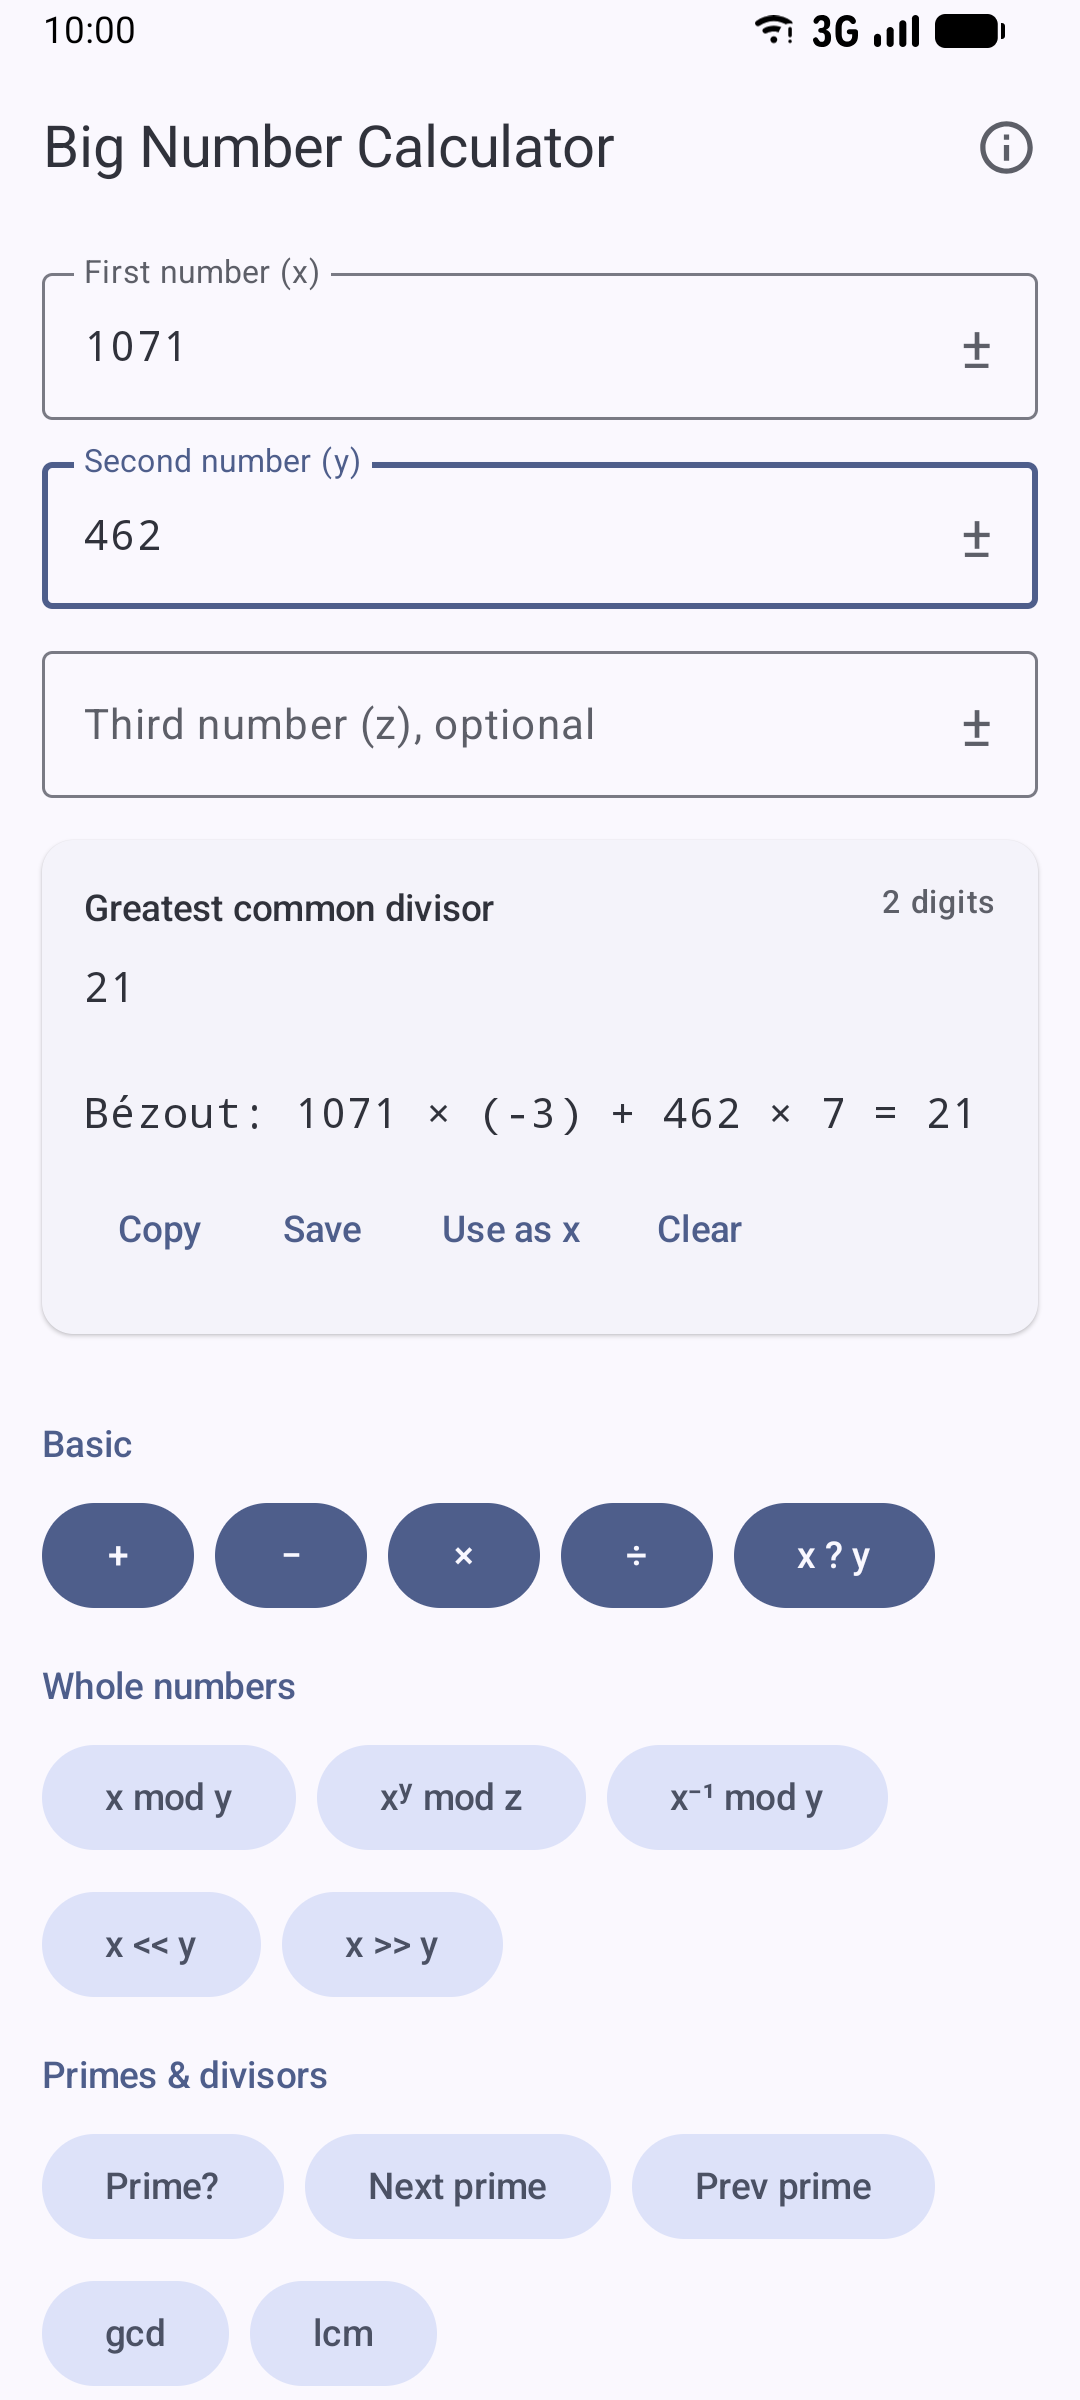
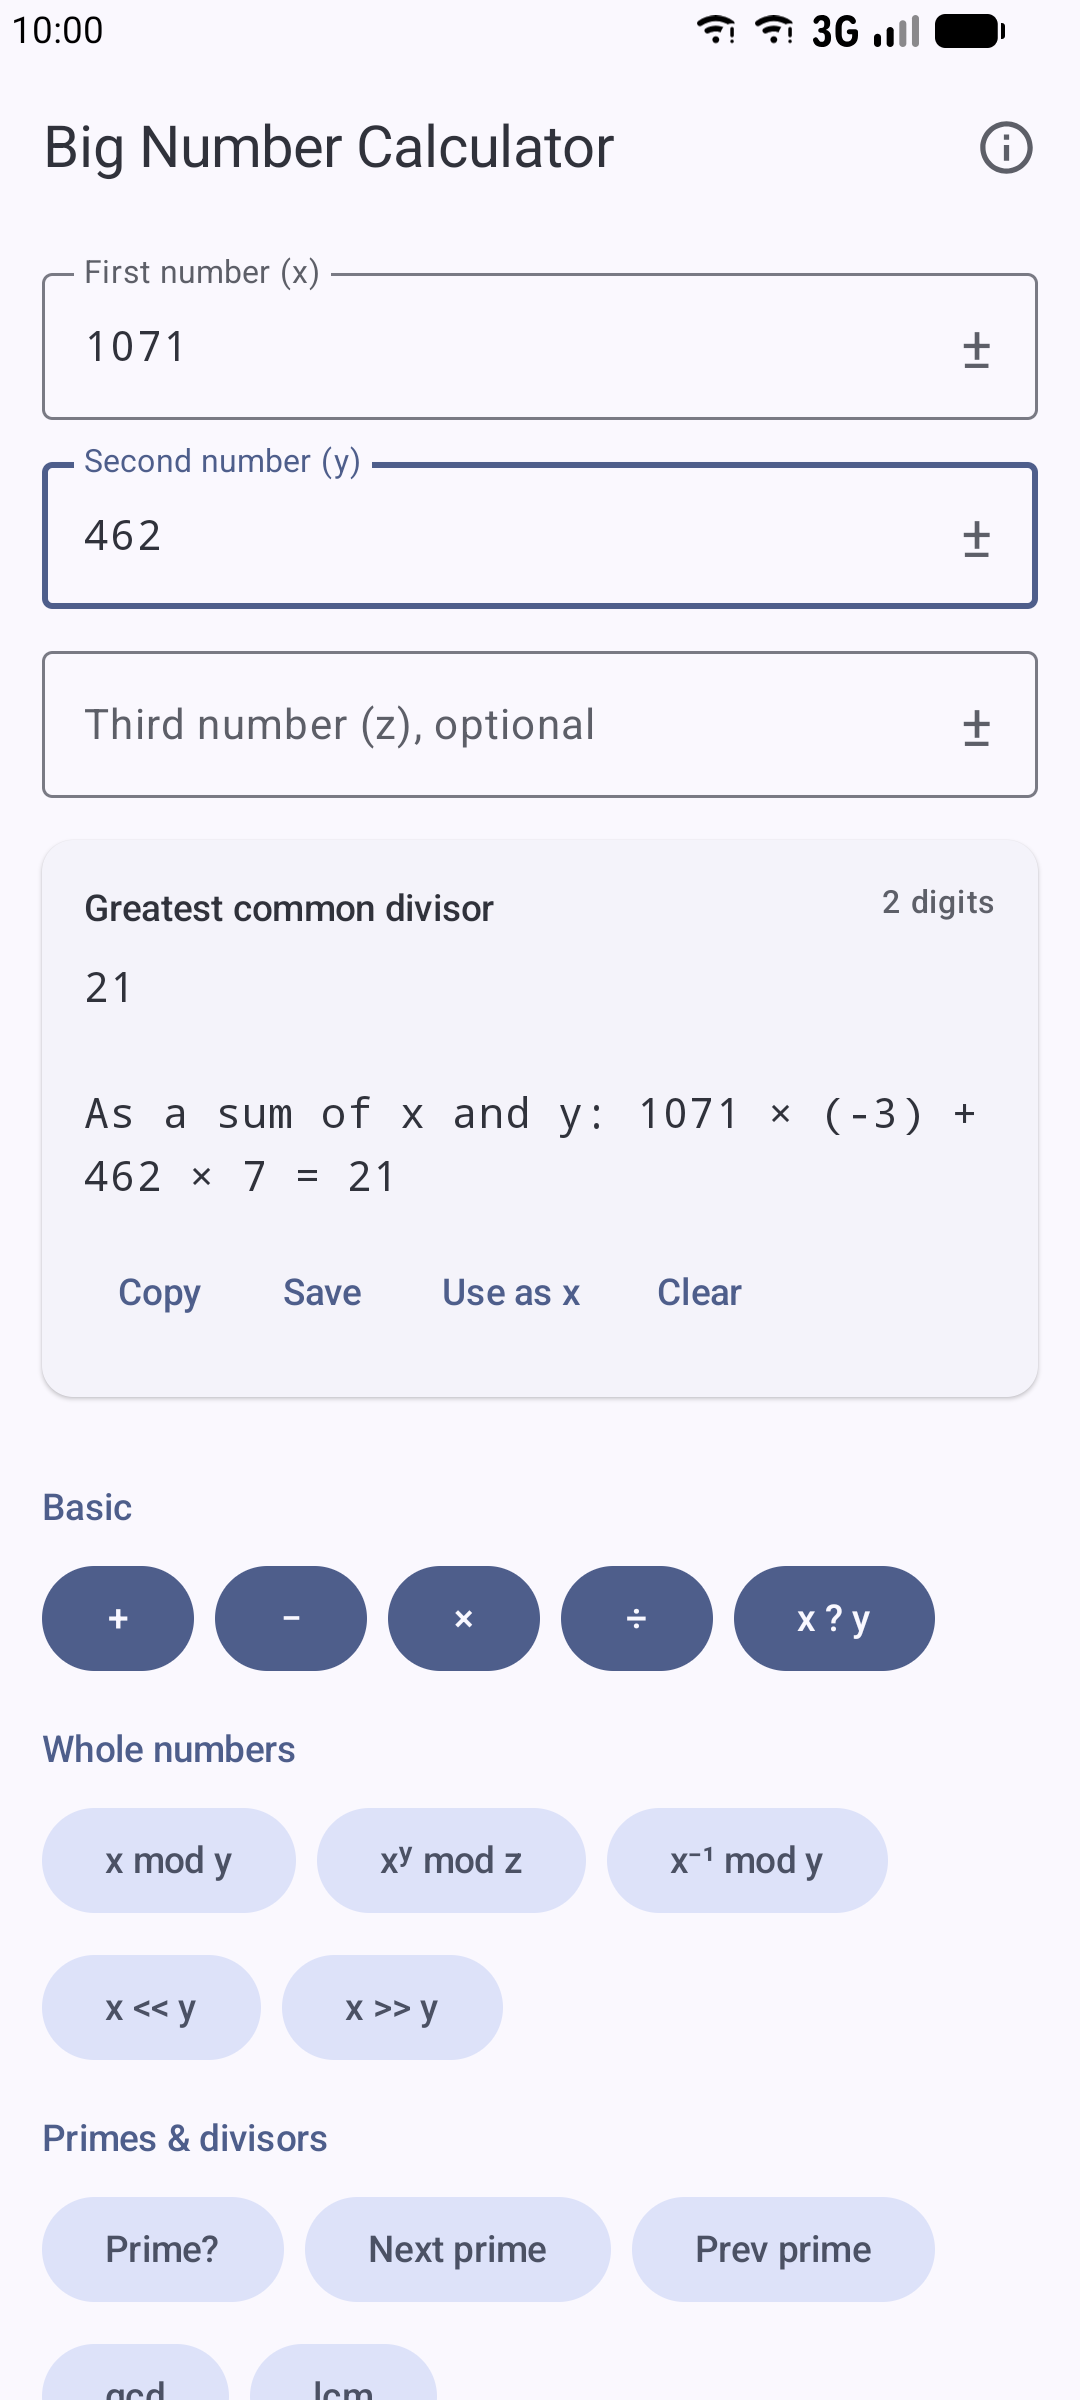
Use plain English for gcd, check-digit and sequence labels
Replace the "Bezout" line in gcd results with "As a sum of x and y",
rename the Luhn check to "Card / IMEI check digit", spell out the
Fibonacci and Catalan button labels, and show "none" instead of a dash
for trailing zeros. Retake the gcd screenshot and update the README.

diff --git a/app/src/test/java/info/mayuragarkar/calculator/engine/CalcEngineTest.kt b/app/src/test/java/info/mayuragarkar/calculator/engine/CalcEngineTest.kt
@@ -121,7 +121,7 @@ class CalcEngineTest {
         assertEquals("97", eval(Op.PREV_PRIME, "100"))
         assertEquals("2", eval(Op.PREV_PRIME, "3"))
         assertTrue(fails(Op.PREV_PRIME, "2").contains("no prime"))
-        assertEquals("6\n\nBézout: 12 × (-1) + 18 × 1 = 6", eval(Op.GCD, "12", "18"))
+        assertEquals("6\n\nAs a sum of x and y: 12 × (-1) + 18 × 1 = 6", eval(Op.GCD, "12", "18"))
         assertEquals("6", eval(Op.GCD, "12, 18, 30"))
         assertEquals("60", eval(Op.LCM, "4 6", "10"))
         assertTrue(fails(Op.GCD, "12").contains("at least two"))
@@ -145,15 +145,15 @@ class CalcEngineTest {
         assertEquals("-Z", eval(Op.TO_BASE, "-35", "36"))
         assertTrue(fails(Op.TO_BASE, "10", "1").contains("2 to 36"))
         assertEquals("Bit length: 8\nOnes: 8\nTrailing zeros: 0", eval(Op.BITS, "255"))
-        assertEquals("Bit length: 0\nOnes: 0\nTrailing zeros: –", eval(Op.BITS, "0"))
+        assertEquals("Bit length: 0\nOnes: 0\nTrailing zeros: none", eval(Op.BITS, "0"))
         assertEquals("Two's complement width: 8 bits\nOnes: 8\nTrailing zeros: 0\n\n11111111", eval(Op.BITS, "-1"))
         assertTrue(eval(Op.BITS, "-128").endsWith("\n10000000"))
     }
 
     @Test fun checkDigits() {
-        assertEquals("Luhn (cards, IMEI): valid", eval(Op.CHECK_DIGITS, "79927398713"))
+        assertEquals("Card / IMEI check digit: valid", eval(Op.CHECK_DIGITS, "79927398713"))
         assertTrue(eval(Op.CHECK_DIGITS, "79927398710").contains("should be 3"))
-        assertTrue(eval(Op.CHECK_DIGITS, "978-0-306-40615-7").startsWith("ISBN-13 / EAN-13: valid"))
+        assertTrue(eval(Op.CHECK_DIGITS, "978-0-306-40615-7").startsWith("ISBN-13 / barcode (EAN-13): valid"))
         assertTrue(eval(Op.CHECK_DIGITS, "0-306-40615-2").startsWith("ISBN-10: valid"))
         assertEquals("IBAN: valid", eval(Op.CHECK_DIGITS, "GB82 WEST 1234 5698 7654 32"))
         assertTrue(eval(Op.CHECK_DIGITS, "GB00 WEST 1234 5698 7654 32").contains("should be 82"))

diff --git a/app/src/main/java/info/mayuragarkar/calculator/engine/CalcEngine.kt b/app/src/main/java/info/mayuragarkar/calculator/engine/CalcEngine.kt
@@ -34,8 +34,8 @@ enum class Op(val label: String, val title: String, val group: Group) {
     LN("ln x", "Natural logarithm", Group.POWERS),
     NCR("C(x, y)", "Combinations", Group.COUNTING),
     NPR("P(x, y)", "Permutations", Group.COUNTING),
-    FIBONACCI("Fib(x)", "Fibonacci number", Group.COUNTING),
-    CATALAN("Cat(x)", "Catalan number", Group.COUNTING),
+    FIBONACCI("Fibonacci(x)", "Fibonacci number", Group.COUNTING),
+    CATALAN("Catalan(x)", "Catalan number", Group.COUNTING),
     TO_BASE("x in base y", "Base conversion", Group.CONVERT),
     BITS("Bits", "Bit view", Group.CONVERT),
     CHECK_DIGITS("Check digits", "Check digits (card, ISBN, IBAN)", Group.CONVERT),

diff --git a/rust/src/engine.rs b/rust/src/engine.rs
@@ -420,7 +420,7 @@ fn paren(i: &Integer) -> String {
 fn gcd(nums: &[Integer]) -> Res<String> {
     if let [a, b] = nums {
         let (g, s, t) = a.extended_gcd(b);
-        return Ok(format!("{g}\n\nBézout: {} × {} + {} × {} = {g}", paren(a), paren(&s), paren(b), paren(&t)));
+        return Ok(format!("{g}\n\nAs a sum of x and y: {} × {} + {} × {} = {g}", paren(a), paren(&s), paren(b), paren(&t)));
     }
     Ok(nums.iter().fold(Natural::ZERO, |acc, n| acc.gcd(n.unsigned_abs())).to_string())
 }
@@ -520,7 +520,7 @@ fn fibonacci(n: u64, c: &Cancel) -> Res<Natural> {
 }
 
 fn bits(n: Integer) -> Res<String> {
-    let tz = |v: &Natural| v.trailing_zeros().map_or("–".into(), |t| t.to_string());
+    let tz = |v: &Natural| v.trailing_zeros().map_or("none".into(), |t| t.to_string());
     if n >= 0 {
         let u = n.unsigned_abs();
         return Ok(format!("Bit length: {}\nOnes: {}\nTrailing zeros: {}", u.significant_bits(), (&u).count_ones(), tz(&u)));
@@ -570,7 +570,7 @@ fn check_digit_text(text: &str) -> Res<String> {
     if b.len() == 13 {
         let sum: u32 = d[..12].iter().enumerate().map(|(i, v)| if i % 2 == 0 { *v } else { v * 3 }).sum();
         let want = (10 - sum % 10) % 10;
-        lines.push(verdict("ISBN-13 / EAN-13", d[12] == want, &want.to_string()));
+        lines.push(verdict("ISBN-13 / barcode (EAN-13)", d[12] == want, &want.to_string()));
     }
     if digits_only && b.len() >= 2 {
         let sum: u32 = d[..d.len() - 1]
@@ -580,7 +580,7 @@ fn check_digit_text(text: &str) -> Res<String> {
             .map(|(i, &v)| if i % 2 == 0 { if v * 2 > 9 { v * 2 - 9 } else { v * 2 } } else { v })
             .sum();
         let want = (10 - sum % 10) % 10;
-        lines.push(verdict("Luhn (cards, IMEI)", d[d.len() - 1] == want, &want.to_string()));
+        lines.push(verdict("Card / IMEI check digit", d[d.len() - 1] == want, &want.to_string()));
     }
     Ok(lines.join("\n"))
 }

diff --git a/README.md b/README.md
@@ -7,7 +7,7 @@ it computes in under half a second.
 <p align="center">
   <img src="docs/screenshots/home.png" width="220" alt="Start screen with the three inputs and operation groups">
   <img src="docs/screenshots/factorial.png" width="220" alt="1000 factorial, 2,568 digits">
-  <img src="docs/screenshots/gcd.png" width="220" alt="gcd of 1071 and 462 with the Bézout identity">
+  <img src="docs/screenshots/gcd.png" width="220" alt="gcd of 1071 and 462, also written as a sum of the two numbers">
   <img src="docs/screenshots/dark-next-prime.png" width="220" alt="Dark theme: the first prime after a googol">
 </p>
 
@@ -17,10 +17,10 @@ it computes in under half a second.
 |---|---|
 | Basic | Add, subtract, multiply, divide (100 decimal places), compare |
 | Whole numbers | x mod y, xʸ mod z (modular power), modular inverse, left and right bit shifts |
-| Primes & divisors | Primality test, next and previous prime, gcd with Bézout coefficients, lcm |
+| Primes & divisors | Primality test, next and previous prime, gcd (also shown as a sum of x and y, e.g. 1071 × (−3) + 462 × 7 = 21), lcm |
 | Powers & more | xʸ (exact for whole exponents), x², x³, x!, natural logarithm |
 | Counting & sequences | Combinations C(x, y), permutations P(x, y), Fibonacci and Catalan numbers |
-| Bases & checks | Base 2–36 conversion, bit view with two's complement, check digits for cards (Luhn), ISBN-10/13 and IBAN |
+| Bases & checks | Base 2–36 conversion, bit view with two's complement, check digits for card numbers and IMEIs, ISBN-10/13 and IBAN |
 
 - **Exact results.** Whole-number powers, factorials and sequences are computed exactly. Results
   that can only be estimated, such as fractional powers and logarithms, start with "≈".
